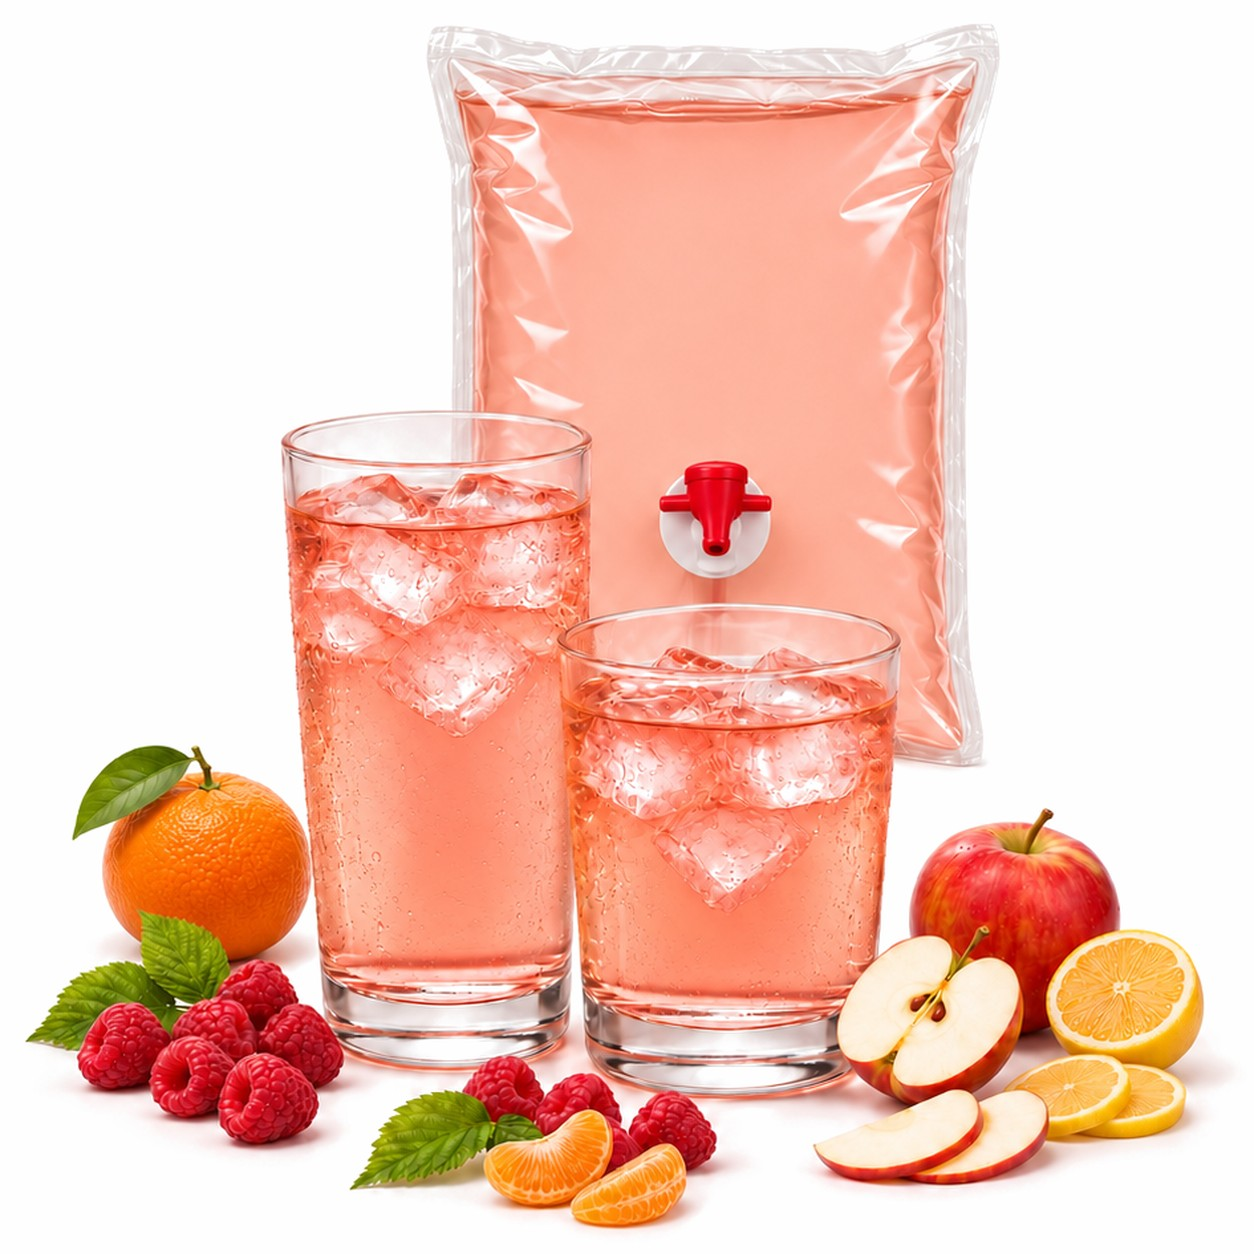
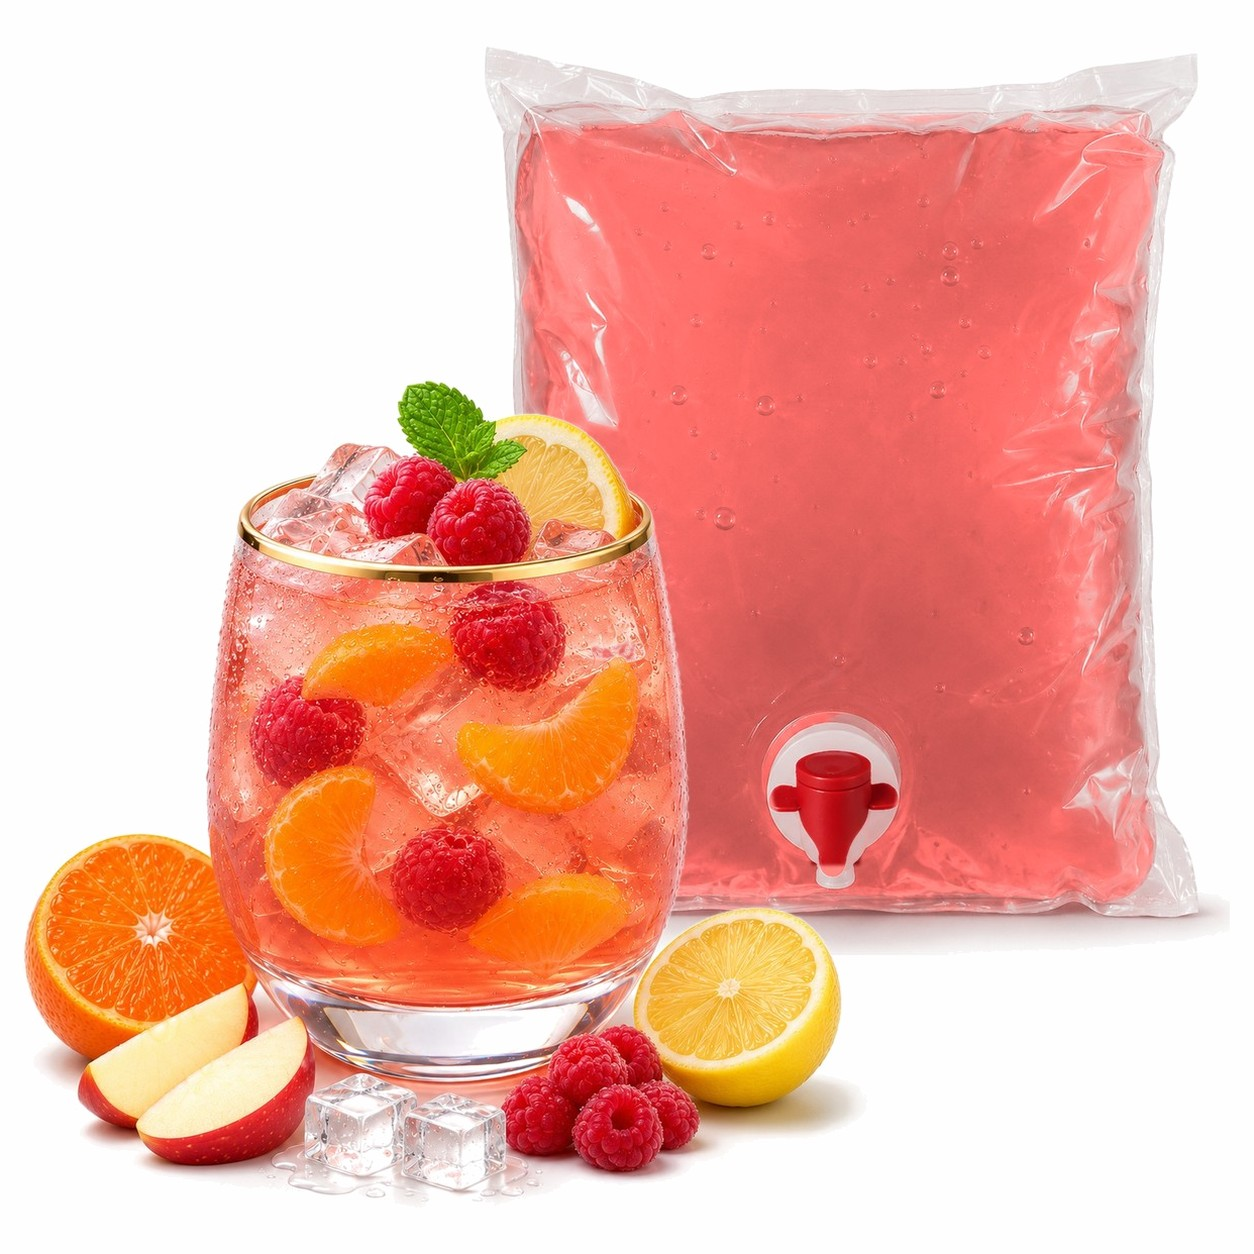
E-shop: nové fotky Červánkového nebe (hlavní a s beginou)
Claude-Session: https://claude.ai/code/session_016QL8fyP6fDGx2RMwKgd8AU

diff --git a/dashboard/lib/eshop/productImages.ts b/dashboard/lib/eshop/productImages.ts
@@ -86,6 +86,8 @@ const BACKDROP: Record<string, string> = {
   "/eshop/koktejly/granatovy-bond-begina-v2.jpg": "#fefefe",
   "/eshop/polevky/gulasova-polevka-z-hlivy-ustricne-hlavni.jpg": "#fefefe",
   "/eshop/ovocne-napoje/dum-u-jezera-hlavni-v2.jpg": "#fefefe",
+  "/eshop/ovocne-napoje/cervankove-nebe-hlavni-v2.jpg": "#fefefe",
+  "/eshop/ovocne-napoje/cervankove-nebe-begina-v2.jpg": "#fefefe",
   // 14. 11. 2026: větší beginy u koktejlů, Dům u jezera s beginou
   "/eshop/koktejly/lady-carneval-begina-v3.jpg": "#fefefe",
   "/eshop/koktejly/granatovy-bond-begina-v3.jpg": "#fefefe",
